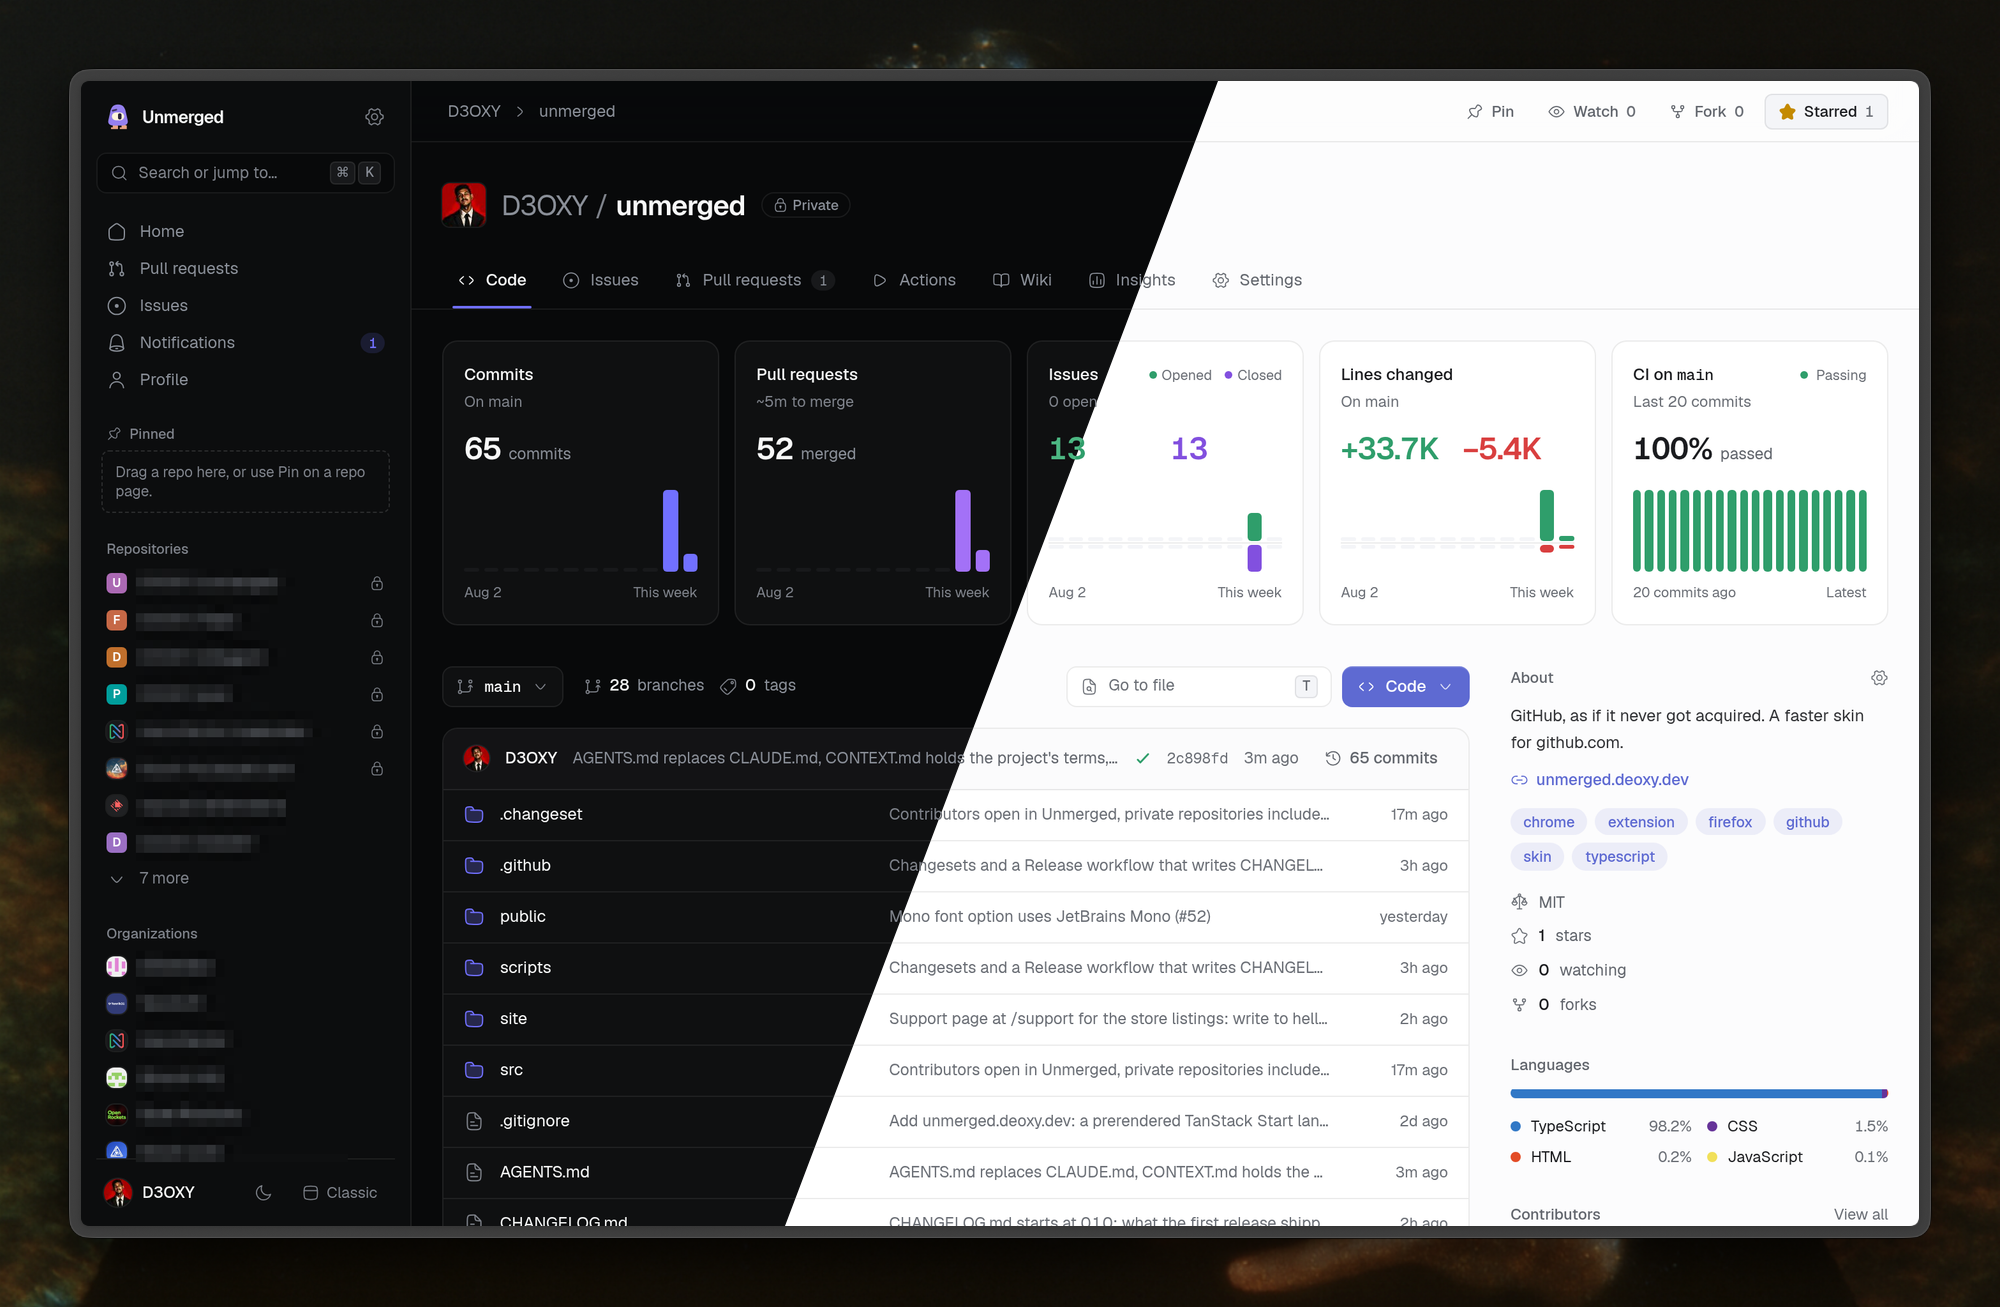
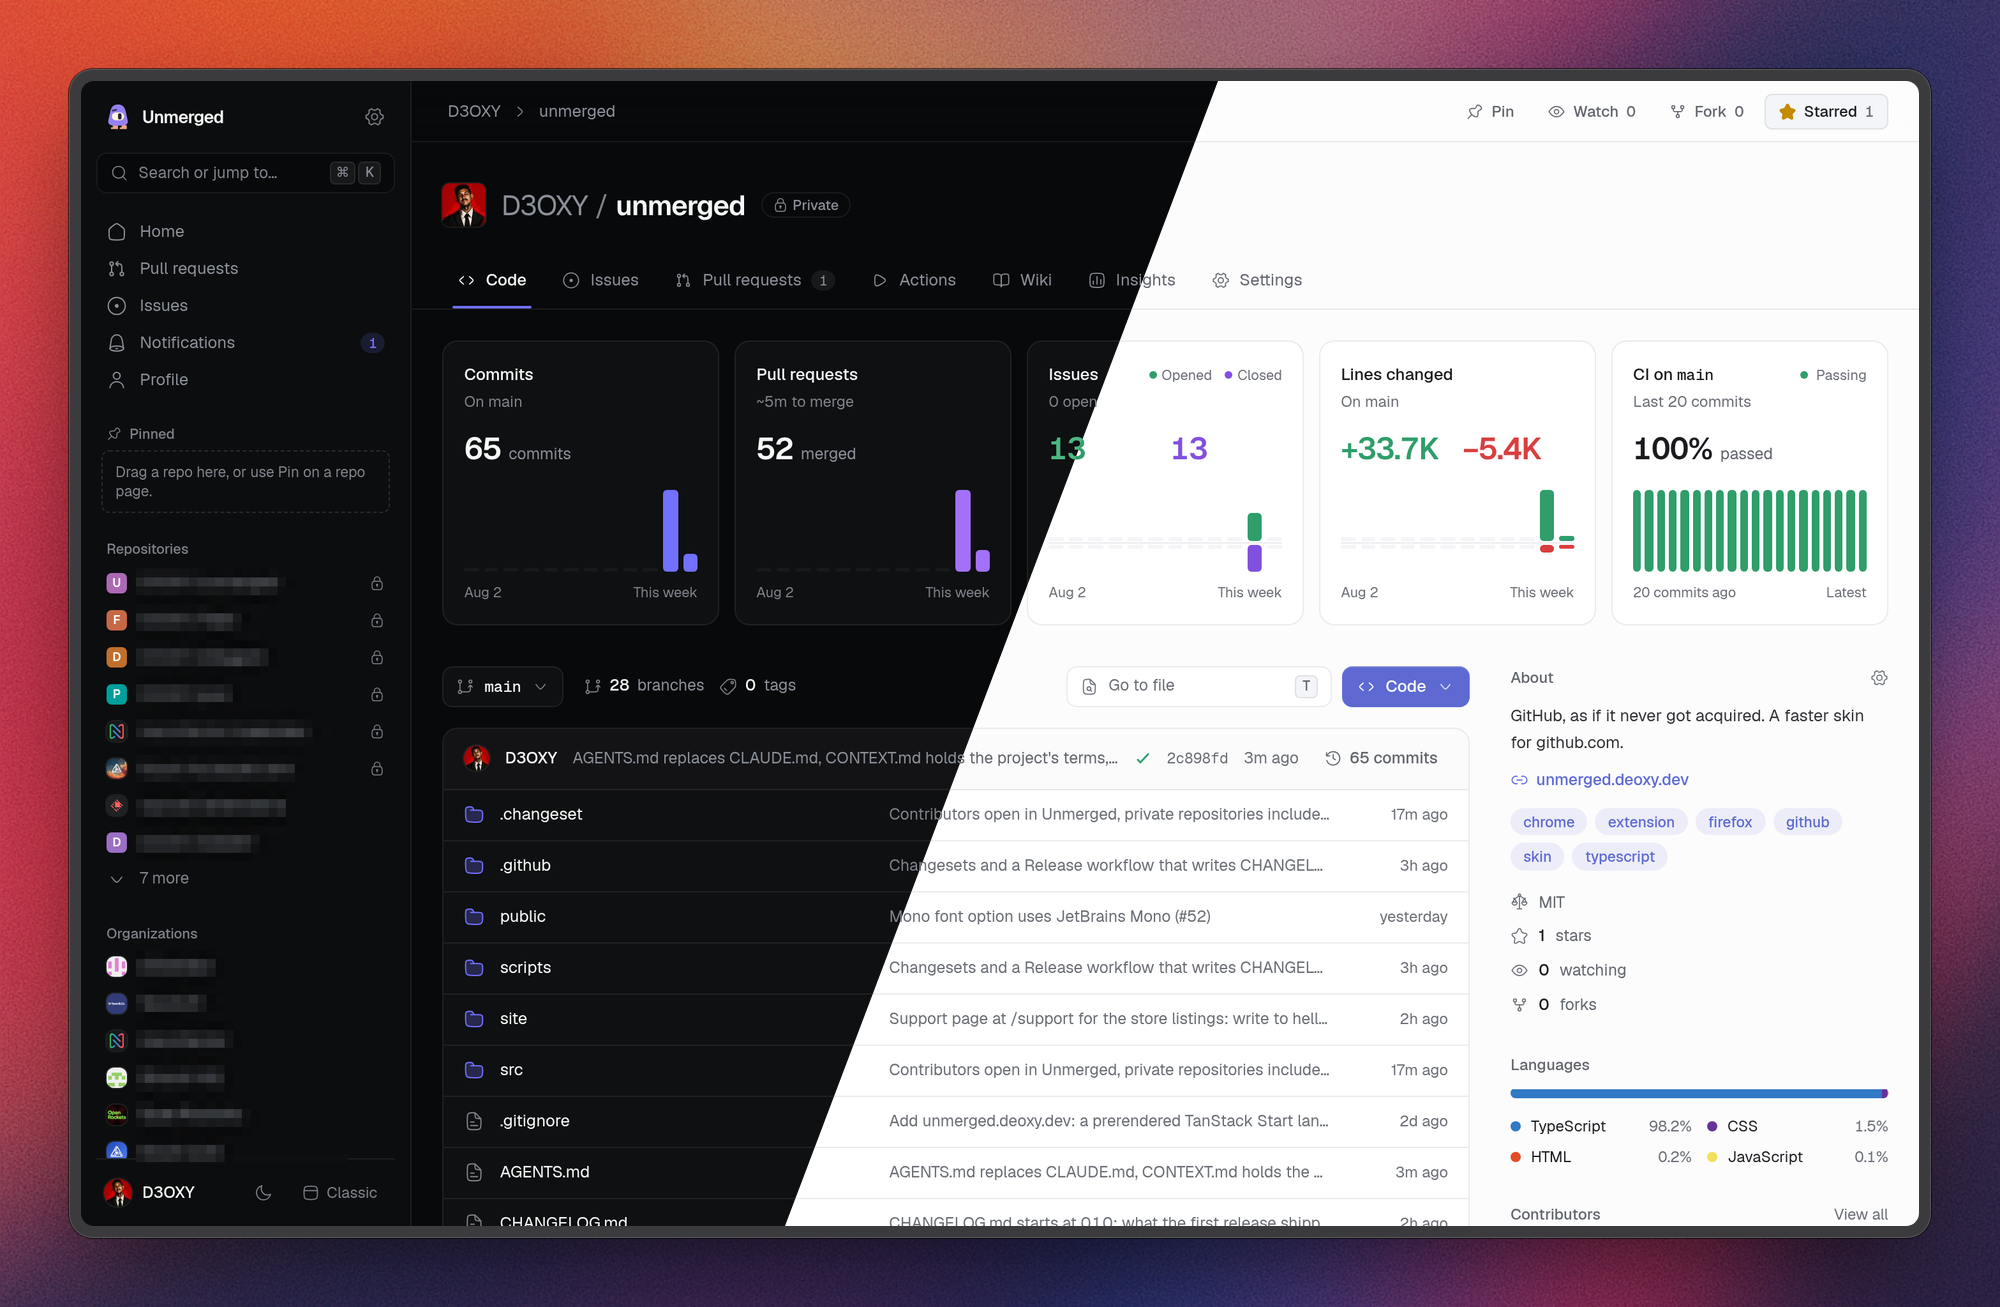
Site: a six-page screenshot carousel on a gradient, with a glass bubble that magnifies under the mouse (#78)
* Site: a carousel of six page screenshots on a gradient replaces the hero image; the README screenshot gets the same gradient

* Site: a glass bubble magnifies the screenshot under the mouse

Changed region(s): [[0.0, 0.0, 1.0, 1.0]]

diff --git a/site/src/components/Screenshots.tsx b/site/src/components/Screenshots.tsx
@@ -1,0 +1,197 @@
+import { useRef, useState, type PointerEvent, type RefObject } from 'react';
+
+const urls = import.meta.glob<string>('../assets/shot-*.webp', { query: '?url', import: 'default', eager: true });
+const src = (name: string, width: number) => urls[`../assets/shot-${name}-${width}.webp`];
+
+/** The slides, in order. Each has a 1120px and a 2000px WebP in site/src/assets, named shot-<name>-<width>.webp. */
+const SLIDES = [
+  { name: 'repo', label: 'Repository', alt: 'A repository page in Unmerged, split diagonally between dark and light mode' },
+  { name: 'pr', label: 'Pull request', alt: 'A pull request conversation in Unmerged' },
+  { name: 'files', label: 'Files changed', alt: "A pull request's changed files side by side in Unmerged" },
+  { name: 'issues', label: 'Issues', alt: 'An issue list with one issue open in a side panel, in Unmerged' },
+  { name: 'palette', label: 'Command palette', alt: "The ⌘K command palette with a pull request's actions, in Unmerged" },
+  { name: 'org', label: 'Organization', alt: "An organization's page in Unmerged" },
+];
+
+/**
+ * Screenshots of Unmerged's pages in a horizontal strip that snaps to each one: swipe or scroll it, or pick a
+ * page below it. Only the first image loads with the page; the others load as they come into view. With a
+ * mouse, a glass bubble follows the pointer and magnifies the screenshot under it.
+ */
+export function Screenshots() {
+  const strip = useRef<HTMLDivElement>(null);
+  const [current, setCurrent] = useState(0);
+  const lens = useGlassBubble(strip);
+
+  const show = (i: number) => {
+    const el = strip.current;
+    if (!el) return;
+    const instant = matchMedia('(prefers-reduced-motion: reduce)').matches;
+    el.scrollTo({ left: i * el.clientWidth, behavior: instant ? 'auto' : 'smooth' });
+  };
+
+  return (
+    <div>
+      <div className="relative overflow-hidden rounded-2xl">
+        <div
+          ref={strip}
+          tabIndex={0}
+          aria-label="Screenshots"
+          onScroll={(e) => {
+            setCurrent(Math.round(e.currentTarget.scrollLeft / e.currentTarget.clientWidth));
+            lens.follow();
+          }}
+          onPointerMove={lens.move}
+          onPointerLeave={lens.hide}
+          className="flex snap-x snap-mandatory overflow-x-auto overscroll-x-contain [scrollbar-width:none] [&::-webkit-scrollbar]:hidden [@media(pointer:fine)]:cursor-none"
+        >
+          {SLIDES.map((slide, i) => (
+            <img
+              key={slide.name}
+              src={src(slide.name, 2000)}
+              srcSet={`${src(slide.name, 1120)} 1120w, ${src(slide.name, 2000)} 2000w`}
+              sizes="(min-width: 1120px) 1072px, 100vw"
+              width={2000}
+              height={1307}
+              alt={slide.alt}
+              loading={i ? 'lazy' : 'eager'}
+              fetchPriority={i ? 'auto' : 'high'}
+              draggable={false}
+              className="h-auto w-full shrink-0 snap-center"
+            />
+          ))}
+        </div>
+        {lens.element}
+      </div>
+      <div className="mt-6 flex flex-wrap justify-center gap-1.5">
+        {SLIDES.map((slide, i) => (
+          <button
+            key={slide.name}
+            type="button"
+            onClick={() => show(i)}
+            aria-current={i === current ? 'true' : undefined}
+            className="h-8 cursor-pointer rounded-full px-3.5 text-[13px] text-muted transition-colors hover:text-fg aria-[current=true]:bg-white/[0.08] aria-[current=true]:text-fg"
+          >
+            {slide.label}
+          </button>
+        ))}
+      </div>
+    </div>
+  );
+}
+
+/** The bubble's diameter, in px. */
+const LENS = 200;
+/** Content drawn past the bubble's rim on each side, so the refraction there has pixels to sample. */
+const PAD = 28;
+const VIEW = LENS + 2 * PAD;
+/** How much larger the screenshot looks through the glass. */
+const ZOOM = 1.9;
+/** The strongest refraction offset at the rim, in px (feDisplacementMap's scale), and the color split around it. */
+const BEND = 44;
+const FRINGE = 5;
+
+/**
+ * A glass bubble over `strip` that follows a mouse or pen. It shows the slide under the pointer, magnified, with
+ * the rim bending outward and a thin color fringe. Moves only touch two style properties: no React updates.
+ */
+function useGlassBubble(strip: RefObject<HTMLDivElement | null>) {
+  const lens = useRef<HTMLDivElement>(null);
+  const view = useRef<HTMLDivElement>(null);
+  const point = useRef<{ x: number; y: number } | null>(null);
+  // The displacement map, built on the first mouse move ('' where a canvas can't draw it). Touch never builds it.
+  const [map, setMap] = useState<string>();
+
+  const follow = () => {
+    const el = strip.current;
+    const at = point.current;
+    if (!el || !at || !lens.current || !view.current) return;
+    const width = el.clientWidth;
+    const index = Math.min(SLIDES.length - 1, Math.floor((el.scrollLeft + at.x) / width));
+    const image = el.querySelectorAll('img')[index];
+    if (!image) return;
+    const x = el.scrollLeft + at.x - index * width;
+    lens.current.style.transform = `translate3d(${at.x - LENS / 2}px, ${at.y - LENS / 2}px, 0)`;
+    const style = view.current.style;
+    const url = `url("${image.currentSrc}")`;
+    if (style.backgroundImage !== url) style.backgroundImage = url;
+    style.backgroundSize = `${width * ZOOM}px ${el.clientHeight * ZOOM}px`;
+    style.backgroundPosition = `${VIEW / 2 - x * ZOOM}px ${VIEW / 2 - at.y * ZOOM}px`;
+  };
+
+  const move = (e: PointerEvent<HTMLDivElement>) => {
+    if (e.pointerType === 'touch') return;
+    if (map === undefined) setMap(bulgeMap(VIEW));
+    if (!map || !lens.current) return;
+    const box = e.currentTarget.getBoundingClientRect();
+    point.current = { x: e.clientX - box.left, y: e.clientY - box.top };
+    lens.current.style.opacity = '1';
+    follow();
+  };
+
+  const hide = () => {
+    point.current = null;
+    if (lens.current) lens.current.style.opacity = '0';
+  };
+
+  const element = map && (
+    <>
+      <svg aria-hidden className="absolute size-0">
+        <filter id="glass-bubble" x="0" y="0" width={VIEW} height={VIEW} filterUnits="userSpaceOnUse" colorInterpolationFilters="sRGB">
+          <feImage href={map} x="0" y="0" width={VIEW} height={VIEW} preserveAspectRatio="none" result="map" />
+          <feDisplacementMap in="SourceGraphic" in2="map" scale={BEND + FRINGE} xChannelSelector="R" yChannelSelector="G" result="red" />
+          <feDisplacementMap in="SourceGraphic" in2="map" scale={BEND} xChannelSelector="R" yChannelSelector="G" result="green" />
+          <feDisplacementMap in="SourceGraphic" in2="map" scale={BEND - FRINGE} xChannelSelector="R" yChannelSelector="G" result="blue" />
+          <feColorMatrix in="red" values="1 0 0 0 0  0 0 0 0 0  0 0 0 0 0  0 0 0 1 0" result="r" />
+          <feColorMatrix in="green" values="0 0 0 0 0  0 1 0 0 0  0 0 0 0 0  0 0 0 1 0" result="g" />
+          <feColorMatrix in="blue" values="0 0 0 0 0  0 0 0 0 0  0 0 1 0 0  0 0 0 1 0" result="b" />
+          <feBlend in="r" in2="g" mode="screen" result="rg" />
+          <feBlend in="rg" in2="b" mode="screen" />
+        </filter>
+      </svg>
+      <div
+        ref={lens}
+        aria-hidden
+        style={{ width: LENS, height: LENS, opacity: 0 }}
+        className="pointer-events-none absolute top-0 left-0 overflow-hidden rounded-full shadow-[0_18px_40px_-12px_rgb(0_0_0/0.6),0_0_0_1px_rgb(255_255_255/0.35)] transition-opacity duration-150"
+      >
+        <div
+          ref={view}
+          style={{ left: -PAD, top: -PAD, width: VIEW, height: VIEW, filter: 'url(#glass-bubble)' }}
+          className="absolute bg-no-repeat"
+        />
+        {/* The glass itself: a soft highlight up top and a darker, lit rim. */}
+        <div className="absolute inset-0 rounded-full bg-[radial-gradient(circle_at_30%_20%,rgb(255_255_255/0.2),transparent_30%)] shadow-[inset_0_0_0_1px_rgb(255_255_255/0.25),inset_0_-8px_20px_rgb(0_0_0/0.25),inset_0_6px_14px_rgb(255_255_255/0.14)]" />
+      </div>
+    </>
+  );
+
+  return { element, move, hide, follow };
+}
+
+/**
+ * The displacement map for a ball of glass, as a data URL: red and green hold each pixel's x and y offset, which
+ * grows with the square of its distance from the center, so the picture bends outward toward the rim.
+ */
+function bulgeMap(size: number) {
+  const canvas = document.createElement('canvas');
+  canvas.width = canvas.height = size;
+  const context = canvas.getContext('2d');
+  if (!context) return '';
+  const pixels = context.createImageData(size, size);
+  const r = size / 2;
+  for (let y = 0; y < size; y++) {
+    for (let x = 0; x < size; x++) {
+      const dx = (x + 0.5 - r) / r;
+      const dy = (y + 0.5 - r) / r;
+      const pull = Math.min(1, dx * dx + dy * dy);
+      const i = (y * size + x) * 4;
+      pixels.data[i] = 128 + dx * pull * 127;
+      pixels.data[i + 1] = 128 + dy * pull * 127;
+      pixels.data[i + 2] = 128;
+      pixels.data[i + 3] = 255;
+    }
+  }
+  context.putImageData(pixels, 0, 0);
+  return canvas.toDataURL();
+}

diff --git a/site/src/routes/index.tsx b/site/src/routes/index.tsx
@@ -21,8 +21,7 @@ import {
   Tick02Icon,
   UserIcon,
 } from '@hugeicons/core-free-icons';
-import screenshot1120 from '../assets/screenshot-1120.webp?url';
-import screenshot2000 from '../assets/screenshot-2000.webp?url';
+import { Screenshots } from '../components/Screenshots';
 import { Kbd, Logo } from '../components/ui';
 import { useInstallHref } from '../install';
 import { FORK_URL, REPO_URL, TAGLINE } from '../site';
@@ -162,16 +161,7 @@ function Hero() {
         <p className="mt-4 text-[12.5px] text-subtle">Free forever</p>
       </div>
       <div className="relative mt-16 animate-enter [animation-delay:120ms] sm:mt-20">
-        <img
-          src={screenshot2000}
-          srcSet={`${screenshot1120} 1120w, ${screenshot2000} 2000w`}
-          sizes="(min-width: 1120px) 1072px, 100vw"
-          width={2000}
-          height={1307}
-          fetchPriority="high"
-          alt="A repository page in Unmerged, split diagonally between dark and light mode"
-          className="h-auto w-full"
-        />
+        <Screenshots />
       </div>
     </section>
   );
